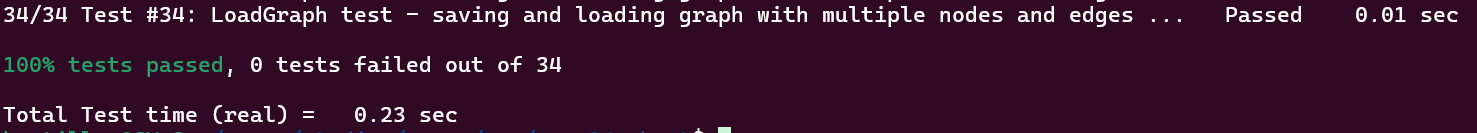
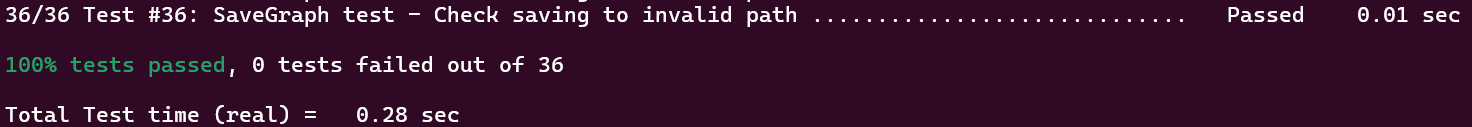
final final

diff --git a/cpp/tests/tests.cpp b/cpp/tests/tests.cpp
@@ -82,32 +82,18 @@ TEST_CASE("LoadGraph test - Check specific edge", "[graph_manager]") {
     CHECK(edges.at(0).second == 2);
 }
 
-TEST_CASE("LoadGraph test - Check invalid edge", "[graph_manager]") {
+TEST_CASE("LoadGraph test - Check edge exists", "[graph_manager]") {
     auto graph = GraphManager::loadGraph("./../../../tests/test_graphs/graph1.graphml");
     auto edges = GraphManager::getEdges(graph);
 
-    bool invalidEdge = false;
-    for (const auto& edge : edges) {
-        if (edge.first == 100 || edge.second == 200) {
-            invalidEdge = true;
-            break;
-        }
-    }
-    CHECK(!invalidEdge);
-}
-
-TEST_CASE("LoadGraph test - Check reverse edge", "[graph_manager]") {
-    auto graph = GraphManager::loadGraph("./../../../tests/test_graphs/graph1.graphml");
-    auto edges = GraphManager::getEdges(graph);
-
-    bool reverseEdgeFound = false;
+    bool EdgeFound = false;
     for (const auto& edge : edges) {
         if (edge.first == 6 && edge.second == 5) {
-            reverseEdgeFound = true;
+            EdgeFound = true;
             break;
         }
     }
-    CHECK(reverseEdgeFound);
+    CHECK(EdgeFound);
 }
 
 TEST_CASE("LoadGraph test - Check specific vertex", "[graph_manager]") {
@@ -122,20 +108,6 @@ TEST_CASE("LoadGraph test - Check vertex with number", "[graph_manager]") {
     auto verticesData = GraphManager::getVerticesData(graph);
 
     CHECK(verticesData[11] == "1");
-}
-
-TEST_CASE("LoadGraph test - Check edge from node 3", "[graph_manager]") {
-    auto graph = GraphManager::loadGraph("./../../../tests/test_graphs/graph1.graphml");
-    auto edges = GraphManager::getEdges(graph);
-
-    bool edgeFound = false;
-    for (const auto& edge : edges) {
-        if (edge.first == 3 && edge.second == 5) {
-            edgeFound = true;
-            break;
-        }
-    }
-    CHECK(edgeFound);
 }
 
 TEST_CASE("LoadGraph test - Check node 0 connected to node 2", "[graph_manager]") {
@@ -157,21 +129,6 @@ TEST_CASE("LoadGraph test - Check non-existent vertex", "[graph_manager]") {
 
     auto verticesData = GraphManager::getVerticesData(graph);
     CHECK(verticesData.count(100) == 0);
-}
-
-TEST_CASE("LoadGraph test - Check edge between 2 and 3", "[graph_manager]") {
-    auto graph = GraphManager::loadGraph("./../../../tests/test_graphs/graph1.graphml");
-    auto edges = GraphManager::getEdges(graph);
-
-    bool edgeFound = false;
-    for (const auto& edge : edges) {
-        if (edge.first == 2 && edge.second == 3) {
-            edgeFound = true;
-            break;
-        }
-    }
-
-    CHECK(edgeFound);
 }
 
 TEST_CASE("LoadGraph test - Check edge between 6 and 8", "[graph_manager]") {
@@ -201,34 +158,6 @@ TEST_CASE("LoadGraph test - Check node 2 data", "[graph_manager]") {
     auto verticesData = GraphManager::getVerticesData(graph);
 
     CHECK(verticesData[2] == "Node n2");
-}
-
-TEST_CASE("LoadGraph test - Check nodes with edges for graph2", "[graph_manager]") {
-    auto graph = GraphManager::loadGraph("./../../../tests/test_graphs/graph2.graphml");
-    auto edges = GraphManager::getEdges(graph);
-    auto verticesData = GraphManager::getVerticesData(graph);
-
-    REQUIRE(!verticesData.empty());
-
-    bool hasEdges = false;
-    for (const auto& edge : edges) {
-        if (edge.first == 0 || edge.second == 0) {
-            hasEdges = true;
-            break;
-        }
-    }
-
-    CHECK(hasEdges);
-
-    hasEdges = false;
-    for (const auto& edge : edges) {
-        if (edge.first == 6 || edge.second == 6) {
-            hasEdges = true;
-            break;
-        }
-    }
-
-    CHECK(hasEdges);
 }
 
 TEST_CASE("LoadGraph test - Check edges for graph2", "[graph_manager]") {
@@ -299,15 +228,6 @@ TEST_CASE("LoadGraph test - Check correct number of vertices for graph2", "[grap
     CHECK(verticesData.size() == 10);
 }
 
-TEST_CASE("LoadGraph test - Check valid vertex names for graph2", "[graph_manager]") {
-    auto graph = GraphManager::loadGraph("./../../../tests/test_graphs/graph2.graphml");
-    auto verticesData = GraphManager::getVerticesData(graph);
-
-    CHECK(verticesData[0] == "Node 0");
-
-    CHECK(verticesData[5] == "Node 5");
-}
-
 TEST_CASE("LoadGraph test - Check specific node data for graph2", "[graph_manager]") {
     auto graph = GraphManager::loadGraph("./../../../tests/test_graphs/graph2.graphml");
     auto verticesData = GraphManager::getVerticesData(graph);
@@ -315,21 +235,6 @@ TEST_CASE("LoadGraph test - Check specific node data for graph2", "[graph_manage
     CHECK(verticesData[3] == "Node 3");
 
     CHECK(verticesData[7] == "Node 7");
-}
-
-TEST_CASE("LoadGraph test - Check edge between nodes 0 and 2 for graph2", "[graph_manager]") {
-    auto graph = GraphManager::loadGraph("./../../../tests/test_graphs/graph2.graphml");
-    auto edges = GraphManager::getEdges(graph);
-
-    bool edgeFound = false;
-    for (const auto& edge : edges) {
-        if (edge.first == 0 && edge.second == 2) {
-            edgeFound = true;
-            break;
-        }
-    }
-
-    CHECK(edgeFound);
 }
 
 TEST_CASE("LoadGraph test - adding nodes and edges to graph", "[graph_manager]") {
@@ -377,23 +282,6 @@ TEST_CASE("LoadGraph test - saving and loading a graph with multiple edges", "[g
     CHECK(edges.at(1).first == 1);
     CHECK(edges.at(1).second == 2);
     CHECK(nodes[0] == "n0");
-}
-
-TEST_CASE("LoadGraph test - saving and loading graph with disconnected node", "[graph_manager]") {
-    auto graph = Graph();
-    GraphManager::addNode(graph, "n0");
-    GraphManager::addNode(graph, "n1");
-    GraphManager::addNode(graph, "n2");
-    GraphManager::addEdge(graph, 0, 1);
-    GraphManager::saveGraph(graph, "./../../../tests/test_graphs/graph_test_3.graphml");
-    auto new_graph = GraphManager::loadGraph("./../../../tests/test_graphs/graph_test_3.graphml");
-    auto edges = GraphManager::getEdges(new_graph);
-    auto nodes = GraphManager::getVerticesData(new_graph);
-    
-    CHECK(edges.size() == 1);
-    CHECK(edges.at(0).first == 0);
-    CHECK(edges.at(0).second == 1);
-    CHECK(nodes[2] == "n2");
 }
 
 TEST_CASE("LoadGraph test - saving and loading an empty graph", "[graph_manager]") {
@@ -445,3 +333,123 @@ TEST_CASE("LoadGraph test - saving and loading graph with multiple nodes and edg
     CHECK(edges.at(2).second == 3);
     CHECK(nodes[3] == "n3");
 }
+
+TEST_CASE("DeleteNode test - Check node deletion", "[graph_manager]") {
+    auto graph = Graph();
+    GraphManager::addNode(graph, "n0");
+    GraphManager::addNode(graph, "n1");
+    GraphManager::addNode(graph, "n2");
+    GraphManager::removeNode(graph, 1);
+    auto verticesData = GraphManager::getVerticesData(graph);
+
+    CHECK(verticesData.size() == 2);
+}
+
+TEST_CASE("DeleteEdge test - Check edge deletion", "[graph_manager]") {
+    auto graph = Graph();
+    GraphManager::addNode(graph, "n0");
+    GraphManager::addNode(graph, "n1");
+    GraphManager::addNode(graph, "n2");
+    GraphManager::addEdge(graph, 0, 1);
+    GraphManager::addEdge(graph, 1, 2);
+    GraphManager::removeEdge(graph, 0, 1);
+    auto edges = GraphManager::getEdges(graph);
+
+    CHECK(edges.size() == 1);
+    CHECK(edges.at(0).first == 1);
+    CHECK(edges.at(0).second == 2);
+}
+
+TEST_CASE("DeleteNode test - Check edges after node deletion", "[graph_manager]") {
+    auto graph = Graph();
+    GraphManager::addNode(graph, "n0");
+    GraphManager::addNode(graph, "n1");
+    GraphManager::addNode(graph, "n2");
+    GraphManager::addEdge(graph, 0, 1);
+    GraphManager::addEdge(graph, 1, 2);
+    GraphManager::removeNode(graph, 1);
+    auto edges = GraphManager::getEdges(graph);
+
+    CHECK(edges.size() == 0);
+}
+
+TEST_CASE("DeleteEdge test - Check non-existent edge deletion", "[graph_manager]") {
+    auto graph = Graph();
+    GraphManager::addNode(graph, "n0");
+    GraphManager::addNode(graph, "n1");
+    GraphManager::addNode(graph, "n2");
+    GraphManager::addEdge(graph, 0, 1);
+    try {
+        GraphManager::removeEdge(graph, 1, 2); // Non-existent edge
+    } catch (const std::exception& e) {
+        CHECK(std::string(e.what()) == "Edge does not exist");
+    }
+    auto edges = GraphManager::getEdges(graph);
+
+    CHECK(edges.size() == 1);
+    CHECK(edges.at(0).first == 0);
+    CHECK(edges.at(0).second == 1);
+}
+
+TEST_CASE("AddEdge test - Check edge addition with non-existent nodes", "[graph_manager]") {
+    auto graph = Graph();
+    GraphManager::addNode(graph, "n0");
+    try {
+        GraphManager::addEdge(graph, 0, 1); // Target node does not exist
+    } catch (const std::exception& e) {
+        CHECK(std::string(e.what()) == "Invalid source or target node id");
+    }
+    auto edges = GraphManager::getEdges(graph);
+
+    CHECK(edges.size() == 0);
+}
+
+TEST_CASE("RemoveNode test - Check non-existent node deletion", "[graph_manager]") {
+    auto graph = Graph();
+    GraphManager::addNode(graph, "n0");
+    try {
+        GraphManager::removeNode(graph, 1); // Non-existent node
+    } catch (const std::exception& e) {
+        CHECK(std::string(e.what()) == "Invalid node id");
+    }
+    auto verticesData = GraphManager::getVerticesData(graph);
+
+    CHECK(verticesData.size() == 1);
+    CHECK(verticesData[0] == "n0");
+}
+
+TEST_CASE("RemoveEdge test - Check edge deletion with non-existent nodes", "[graph_manager]") {
+    auto graph = Graph();
+    GraphManager::addNode(graph, "n0");
+    GraphManager::addNode(graph, "n1");
+    GraphManager::addEdge(graph, 0, 1);
+    try {
+        GraphManager::removeEdge(graph, 0, 2); // Target node does not exist
+    } catch (const std::exception& e) {
+        CHECK(std::string(e.what()) == "Invalid source or target node id");
+    }
+    auto edges = GraphManager::getEdges(graph);
+
+    CHECK(edges.size() == 1);
+    CHECK(edges.at(0).first == 0);
+    CHECK(edges.at(0).second == 1);
+}
+
+TEST_CASE("LoadGraph test - Check loading non-existent file", "[graph_manager]") {
+    try {
+        auto graph = GraphManager::loadGraph("./non_existent_file.graphml");
+    } catch (const std::exception& e) {
+        CHECK(std::string(e.what()) == "Failed to open the file!");
+    }
+}
+
+TEST_CASE("SaveGraph test - Check saving to invalid path", "[graph_manager]") {
+    auto graph = Graph();
+    GraphManager::addNode(graph, "n0");
+    try {
+        GraphManager::saveGraph(graph, "/invalid_path/graph_test.graphml");
+    } catch (const std::exception& e) {
+        CHECK(std::string(e.what()) == "Failed to open the file!");
+    }
+}
+

diff --git a/dokumentacja_koncowa.md b/dokumentacja_koncowa.md
@@ -110,7 +110,7 @@ Została ona zintegrowana z procesem kompilacji za pomocą CMake'a.
 
 
 ### Testy
-- 34 testy jednostkowe części `C++`
-![Testy](./images/testy.png)
+- 36 testów jednostkowych części `C++`
+![Testy](./images/tests.png)
 
 - Część GUI w `Pythonie` była testowana ręcznie
